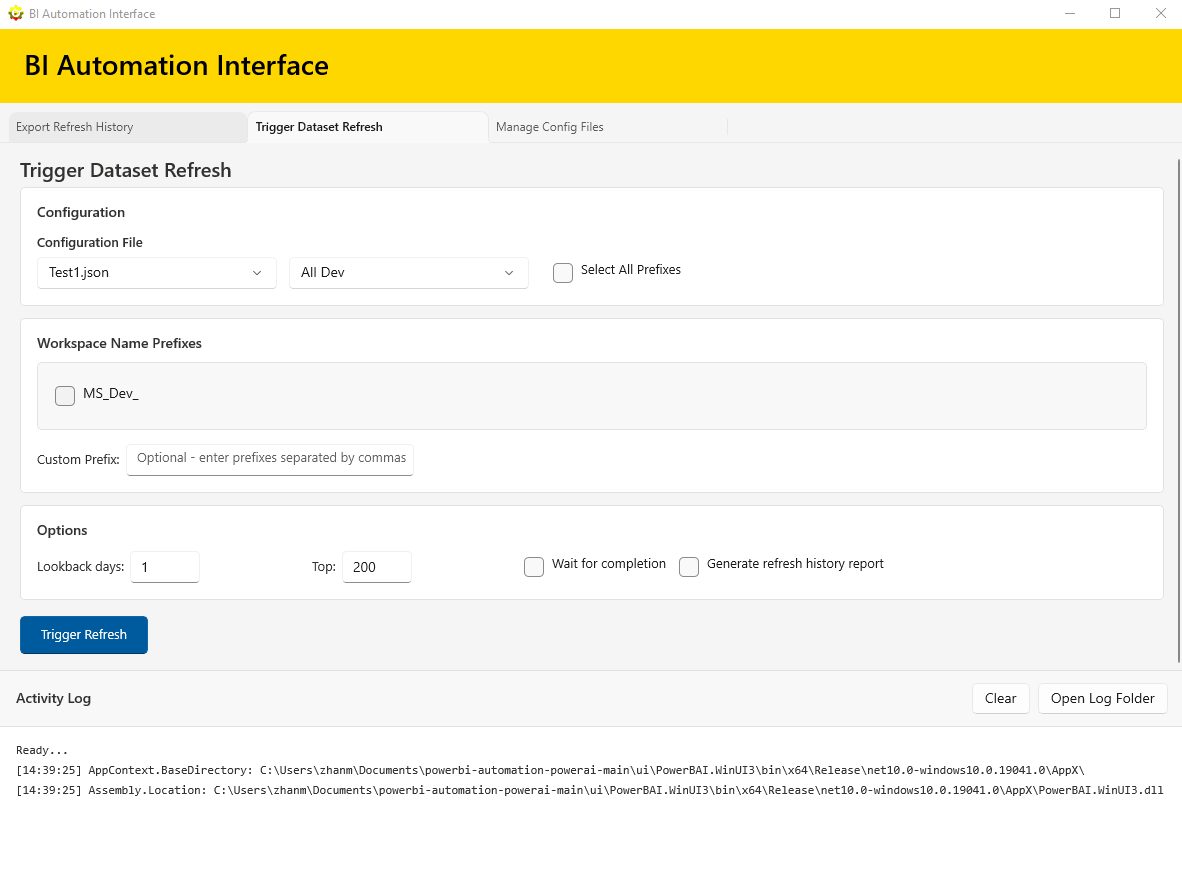
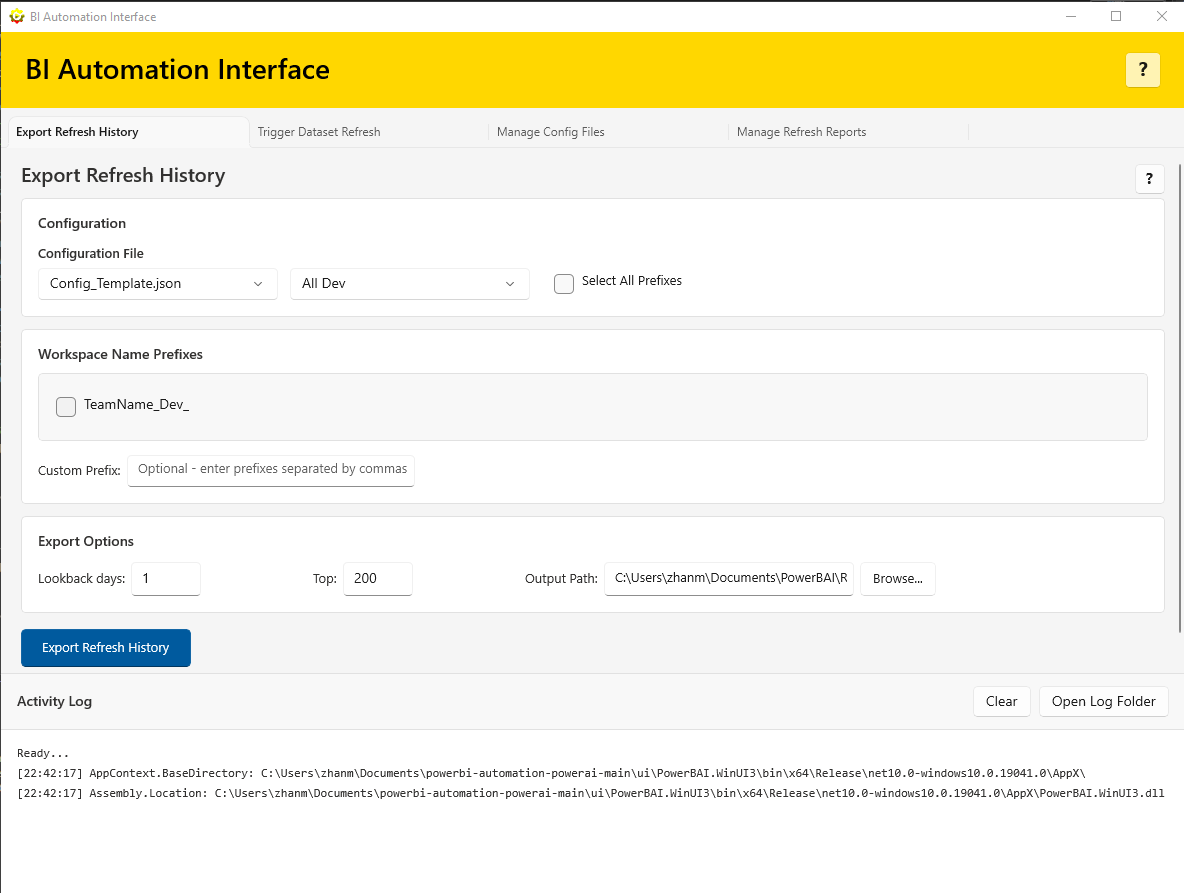
Enhance documentation with new sections for managing refresh reports and in-app help. Update existing content for clarity and add new images for better user guidance.

diff --git a/docs/index.html b/docs/index.html
@@ -29,7 +29,7 @@
         <div class="container">
             <div class="hero-content">
                 <h1 class="hero-title">Streamline Your Power BI Administration</h1>
-                <p class="hero-subtitle">Automate dataset refreshes and manage workspaces with ease. No admin rights required for daily use.</p>
+                <p class="hero-subtitle">Automate dataset refreshes and quickly identify refresh failures across many workspaces and reports. No admin rights required for daily use.</p>
                 <div class="hero-cta">
                     <a href="https://apps.microsoft.com/detail/9NP7JGN357HW" class="btn btn-primary btn-large">
                         Download from Microsoft Store
@@ -58,7 +58,17 @@
                 <div class="feature-card">
                     <div class="feature-icon">📊</div>
                     <h3>Export Refresh History</h3>
-                    <p>Export comprehensive refresh history reports with customizable lookback periods and filtering options.</p>
+                    <p>Export HTML + CSV refresh history reports with customizable lookback periods and filtering options.</p>
+                </div>
+                <div class="feature-card">
+                    <div class="feature-icon">🚨</div>
+                    <h3>Spot Failures Fast</h3>
+                    <p>Run refresh reports to quickly identify failed datasets across many workspaces and reports.</p>
+                </div>
+                <div class="feature-card">
+                    <div class="feature-icon">🧾</div>
+                    <h3>Manage Refresh Reports</h3>
+                    <p>Preview reports, open summary/details CSVs, and keep sample output ready for new users.</p>
                 </div>
                 <div class="feature-card">
                     <div class="feature-icon">⚙</div>
@@ -68,7 +78,12 @@
                 <div class="feature-card">
                     <div class="feature-icon">🧹</div>
                     <h3>Cleanup Automation</h3>
-                    <p>Clean up user-created refresh reports only. It does not delete anything from your workspaces or datasets.</p>
+                    <p>Manage refresh reports and clean up user-created files only. It does not delete anything from your workspaces or datasets.</p>
+                </div>
+                <div class="feature-card">
+                    <div class="feature-icon">❓</div>
+                    <h3>In-app Help</h3>
+                    <p>Each tab includes a help button with quick guidance on options, output files, and best practices.</p>
                 </div>
             </div>
         </div>
@@ -81,7 +96,7 @@
             <div class="benefits-list">
                 <div class="benefit-item">
                     <strong>✅ No Admin Rights Required</strong>
-                    <p>Run daily operations without administrator privileges. Only initial PowerShell 7 installation may require admin.</p>
+                    <p>Run daily operations without Power BI admin rights. If you can access a workspace dataset and view refresh history in the cloud, you can use the tool.</p>
                 </div>
                 <div class="benefit-item">
                     <strong>⚡ Save Time</strong>
@@ -105,27 +120,27 @@
             <h2 class="section-title">Screenshots</h2>
             <div class="screenshots-grid">
                 <div class="screenshot-card">
-                    <img class="lightbox-image" src="images/screenshot-1.png" alt="Trigger Refresh page screenshot" />
-                    <p>Trigger Refresh</p>
+                    <img class="lightbox-image" src="images/Trigger refesh tab help.png" alt="Trigger Refresh help dialog screenshot" />
+                    <p>Trigger Refresh Help</p>
                 </div>
                 <div class="screenshot-card">
-                    <img class="lightbox-image" src="images/screenshot-2.png" alt="Export Refresh History page screenshot" />
-                    <p>Export Refresh History</p>
+                    <img class="lightbox-image" src="images/Export refresh history tab help.png" alt="Export Refresh History help dialog screenshot" />
+                    <p>Export Refresh Help</p>
                 </div>
                 <div class="screenshot-card">
-                    <img class="lightbox-image" src="images/screenshot-3.png" alt="Manage Config Files page screenshot" />
-                    <p>Manage Config Files</p>
+                    <img class="lightbox-image" src="images/Manage Report tab.png" alt="Manage Refresh Reports page screenshot" />
+                    <p>Manage Refresh Reports</p>
                 </div>
                 <div class="screenshot-card">
-                    <img class="lightbox-image" src="images/screenshot-4.png" alt="Edit Template dialog screenshot" />
-                    <p>Edit Template</p>
+                    <img class="lightbox-image" src="images/report in browser.png" alt="Refresh report preview in browser screenshot" />
+                    <p>Report Preview (Browser)</p>
                 </div>
                 <div class="screenshot-card">
-                    <img class="lightbox-image" src="images/screenshot-5.png" alt="Configuration files help dialog screenshot" />
-                    <p>Config Help</p>
+                    <img class="lightbox-image" src="images/Refresh Report tab help.png" alt="Refresh Report help dialog screenshot" />
+                    <p>Refresh Report Help</p>
                 </div>
                 <div class="screenshot-card">
-                    <img class="lightbox-image" src="images/screenshot-6.png" alt="Requirements dialog screenshot" />
+                    <img class="lightbox-image" src="images/screenshot-5.png" alt="Requirements dialog screenshot" />
                     <p>Requirements</p>
                 </div>
             </div>

diff --git a/docs/docs.html b/docs/docs.html
@@ -42,7 +42,9 @@
                     <li><a href="#custom-prefixes">Custom Prefixes</a></li>
                     <li><a href="#trigger-refresh">Trigger Refresh</a></li>
                     <li><a href="#export-history">Export History</a></li>
+                    <li><a href="#manage-reports">Manage Refresh Reports</a></li>
                     <li><a href="#cleanup">Cleanup Reports</a></li>
+                    <li><a href="#help-tips">In-app Help</a></li>
                     <li><a href="#screenshots">Screenshots</a></li>
                     <li><a href="#troubleshooting">Troubleshooting</a></li>
                 </ul>
@@ -51,7 +53,8 @@
             <div class="docs-content">
                 <section id="overview" class="docs-section">
                     <h2>Overview</h2>
-                    <p>BI Automation Interface lets you refresh datasets in bulk and export refresh history across multiple workspaces. Everything is driven by simple JSON configuration files.</p>
+                    <p>BI Automation Interface lets you refresh datasets in bulk and export refresh history across multiple workspaces. It helps you spot refresh failures quickly across many workspaces and reports. Everything is driven by simple JSON configuration files.</p>
+                    <p>You do not need Power BI admin rights. If you can access a workspace dataset and view refresh history in the cloud, you can use the tool.</p>
                     <div class="docs-callout">
                         <strong>Tip:</strong> Use workspace name prefixes to select many workspaces at once.
                     </div>
@@ -93,13 +96,21 @@
                 <section id="trigger-refresh" class="docs-section">
                     <h2>Trigger Refresh</h2>
                     <p>Select a config file, choose a preset, and click <span class="inline-code">Trigger Refresh</span> to run refreshes in bulk.</p>
-                    <img class="lightbox-image" src="images/screenshot-1.png" alt="Trigger Refresh page screenshot" />
+                    <img class="lightbox-image" src="images/Trigger refesh tab help.png" alt="Trigger Refresh help dialog screenshot" />
                 </section>
 
                 <section id="export-history" class="docs-section">
                     <h2>Export Refresh History</h2>
                     <p>Use lookback days and top filters to control the output size. You can also provide a custom output path.</p>
-                    <img class="lightbox-image" src="images/screenshot-2.png" alt="Export Refresh History page screenshot" />
+                    <p>Reports include an HTML summary plus CSV outputs for analysis.</p>
+                    <img class="lightbox-image" src="images/Export refresh history tab help.png" alt="Export Refresh History help dialog screenshot" />
+                </section>
+
+                <section id="manage-reports" class="docs-section">
+                    <h2>Manage Refresh Reports</h2>
+                    <p>Preview HTML reports, open the summary CSV, and open the details CSV or Excel output when available.</p>
+                    <p>Sample report files are provided for first-time use, so the page is never empty.</p>
+                    <img class="lightbox-image" src="images/Manage Report tab.png" alt="Manage Refresh Reports page screenshot" />
                 </section>
 
                 <section id="cleanup" class="docs-section">
@@ -107,20 +118,26 @@
                     <p>Cleanup removes user-created refresh report entries only. It does not delete anything from your workspaces or datasets.</p>
                 </section>
 
+                <section id="help-tips" class="docs-section">
+                    <h2>In-app Help</h2>
+                    <p>Each tab has a help button with short explanations of inputs, outputs, and file naming.</p>
+                    <p>Use the help popups whenever you need a quick reminder while working.</p>
+                </section>
+
                 <section id="screenshots" class="docs-section">
                     <h2>Screenshots</h2>
                     <div class="screenshots-grid">
                         <div class="screenshot-card">
+                            <img class="lightbox-image" src="images/Refresh Report tab help.png" alt="Refresh Report help dialog screenshot" />
+                            <p>Refresh Report Help</p>
+                        </div>
+                        <div class="screenshot-card">
+                            <img class="lightbox-image" src="images/report in browser.png" alt="Refresh report preview in browser screenshot" />
+                            <p>Report Preview (Browser)</p>
+                        </div>
+                        <div class="screenshot-card">
                             <img class="lightbox-image" src="images/screenshot-3.png" alt="Manage Config Files page screenshot" />
                             <p>Manage Config Files</p>
-                        </div>
-                        <div class="screenshot-card">
-                            <img class="lightbox-image" src="images/screenshot-4.png" alt="Edit Template dialog screenshot" />
-                            <p>Edit Template</p>
-                        </div>
-                        <div class="screenshot-card">
-                            <img class="lightbox-image" src="images/screenshot-5.png" alt="Configuration files help dialog screenshot" />
-                            <p>Config Help</p>
                         </div>
                     </div>
                 </section>

diff --git a/docs/features.html b/docs/features.html
@@ -39,7 +39,15 @@
                 </div>
                 <div class="content-card">
                     <h3>Export Refresh History</h3>
-                    <p>Export refresh history with lookback days, top results, and custom output paths.</p>
+                    <p>Export HTML + CSV refresh history reports with lookback days, top results, and custom output paths.</p>
+                </div>
+                <div class="content-card">
+                    <h3>Spot Failures Fast</h3>
+                    <p>Run refresh reports to quickly identify failed datasets across many workspaces and reports.</p>
+                </div>
+                <div class="content-card">
+                    <h3>Manage Refresh Reports</h3>
+                    <p>Preview reports, open summary/details CSVs, and keep sample output available for onboarding.</p>
                 </div>
                 <div class="content-card">
                     <h3>Config File Management</h3>
@@ -47,7 +55,11 @@
                 </div>
                 <div class="content-card">
                     <h3>Cleanup Automation</h3>
-                    <p>Clean up user-created refresh reports only. It does not delete anything from your workspaces or datasets.</p>
+                    <p>Manage refresh reports and clean up user-created files only. It does not delete anything from your workspaces or datasets.</p>
+                </div>
+                <div class="content-card">
+                    <h3>In-app Help</h3>
+                    <p>Each tab includes a help button with context, definitions, and file naming details.</p>
                 </div>
                 <div class="content-card">
                     <h3>Preset + Custom Prefixes</h3>
@@ -66,16 +78,16 @@
             <h2 class="section-title">Screenshots</h2>
             <div class="screenshots-grid">
                 <div class="screenshot-card">
-                    <img class="lightbox-image" src="images/screenshot-1.png" alt="Trigger Refresh page screenshot" />
-                    <p>Trigger Refresh</p>
+                    <img class="lightbox-image" src="images/Trigger refesh tab help.png" alt="Trigger Refresh help dialog screenshot" />
+                    <p>Trigger Refresh Help</p>
                 </div>
                 <div class="screenshot-card">
-                    <img class="lightbox-image" src="images/screenshot-2.png" alt="Export Refresh History page screenshot" />
-                    <p>Export Refresh History</p>
+                    <img class="lightbox-image" src="images/Export refresh history tab help.png" alt="Export Refresh History help dialog screenshot" />
+                    <p>Export Refresh Help</p>
                 </div>
                 <div class="screenshot-card">
-                    <img class="lightbox-image" src="images/screenshot-3.png" alt="Manage Config Files page screenshot" />
-                    <p>Manage Config Files</p>
+                    <img class="lightbox-image" src="images/Manage Report tab.png" alt="Manage Refresh Reports page screenshot" />
+                    <p>Manage Refresh Reports</p>
                 </div>
             </div>
         </div>

diff --git a/docs/getting-started.html b/docs/getting-started.html
@@ -39,7 +39,7 @@
                 </div>
                 <div class="content-card">
                     <h3>2. Launch the app</h3>
-                    <p>Open BI Automation Interface and review the requirements dialog for setup guidance.</p>
+                    <p>Open BI Automation Interface and review the requirements dialog for setup guidance. You do not need Power BI admin rights.</p>
                 </div>
                 <div class="content-card">
                     <h3>3. Configure presets</h3>
@@ -51,10 +51,18 @@
                 </div>
                 <div class="content-card">
                     <h3>5. Export history</h3>
-                    <p>Use <span class="inline-code">Export Refresh History</span> to generate CSV reports for auditing.</p>
+                    <p>Use <span class="inline-code">Export Refresh History</span> to generate HTML + CSV reports for auditing.</p>
                 </div>
                 <div class="content-card">
-                    <h3>6. Monitor logs</h3>
+                    <h3>6. Manage refresh reports</h3>
+                    <p>Open the <span class="inline-code">Manage Refresh Reports</span> tab to preview HTML reports and open summary/details CSVs.</p>
+                </div>
+                <div class="content-card">
+                    <h3>7. Use help tips</h3>
+                    <p>Click the help button on each tab for quick guidance and file naming details.</p>
+                </div>
+                <div class="content-card">
+                    <h3>8. Monitor logs</h3>
                     <p>Review the Activity Log for status updates and troubleshooting details.</p>
                 </div>
             </div>
